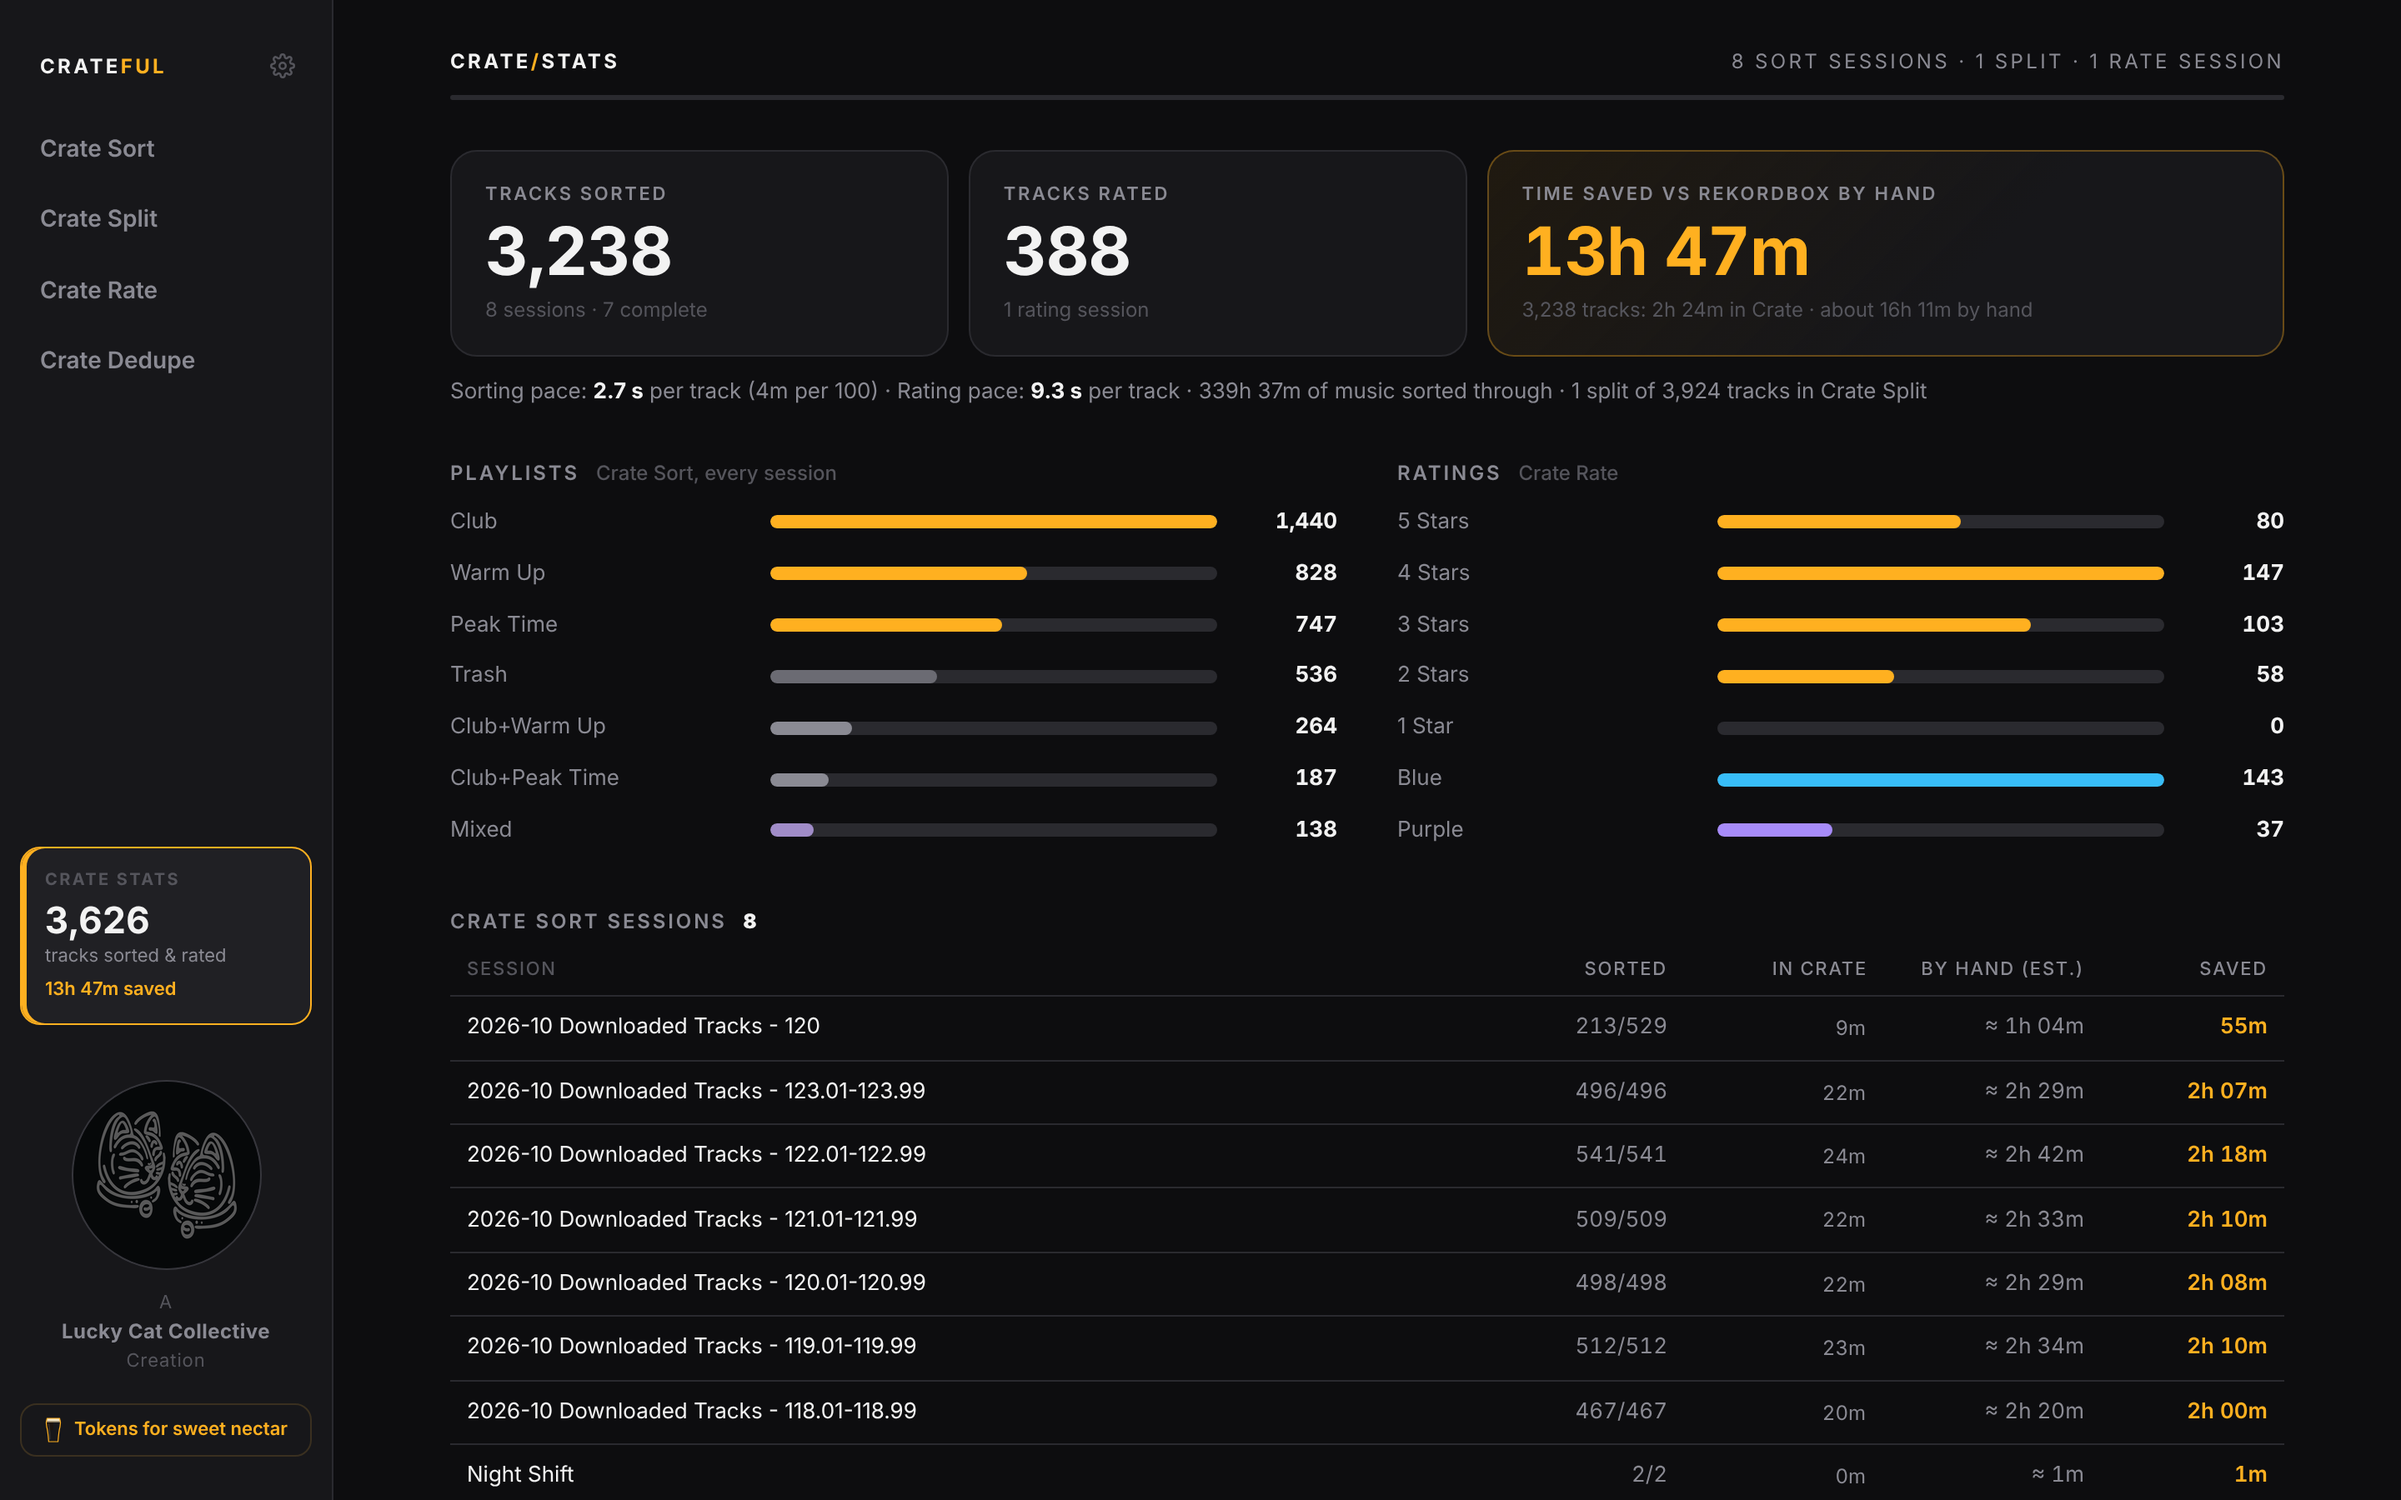
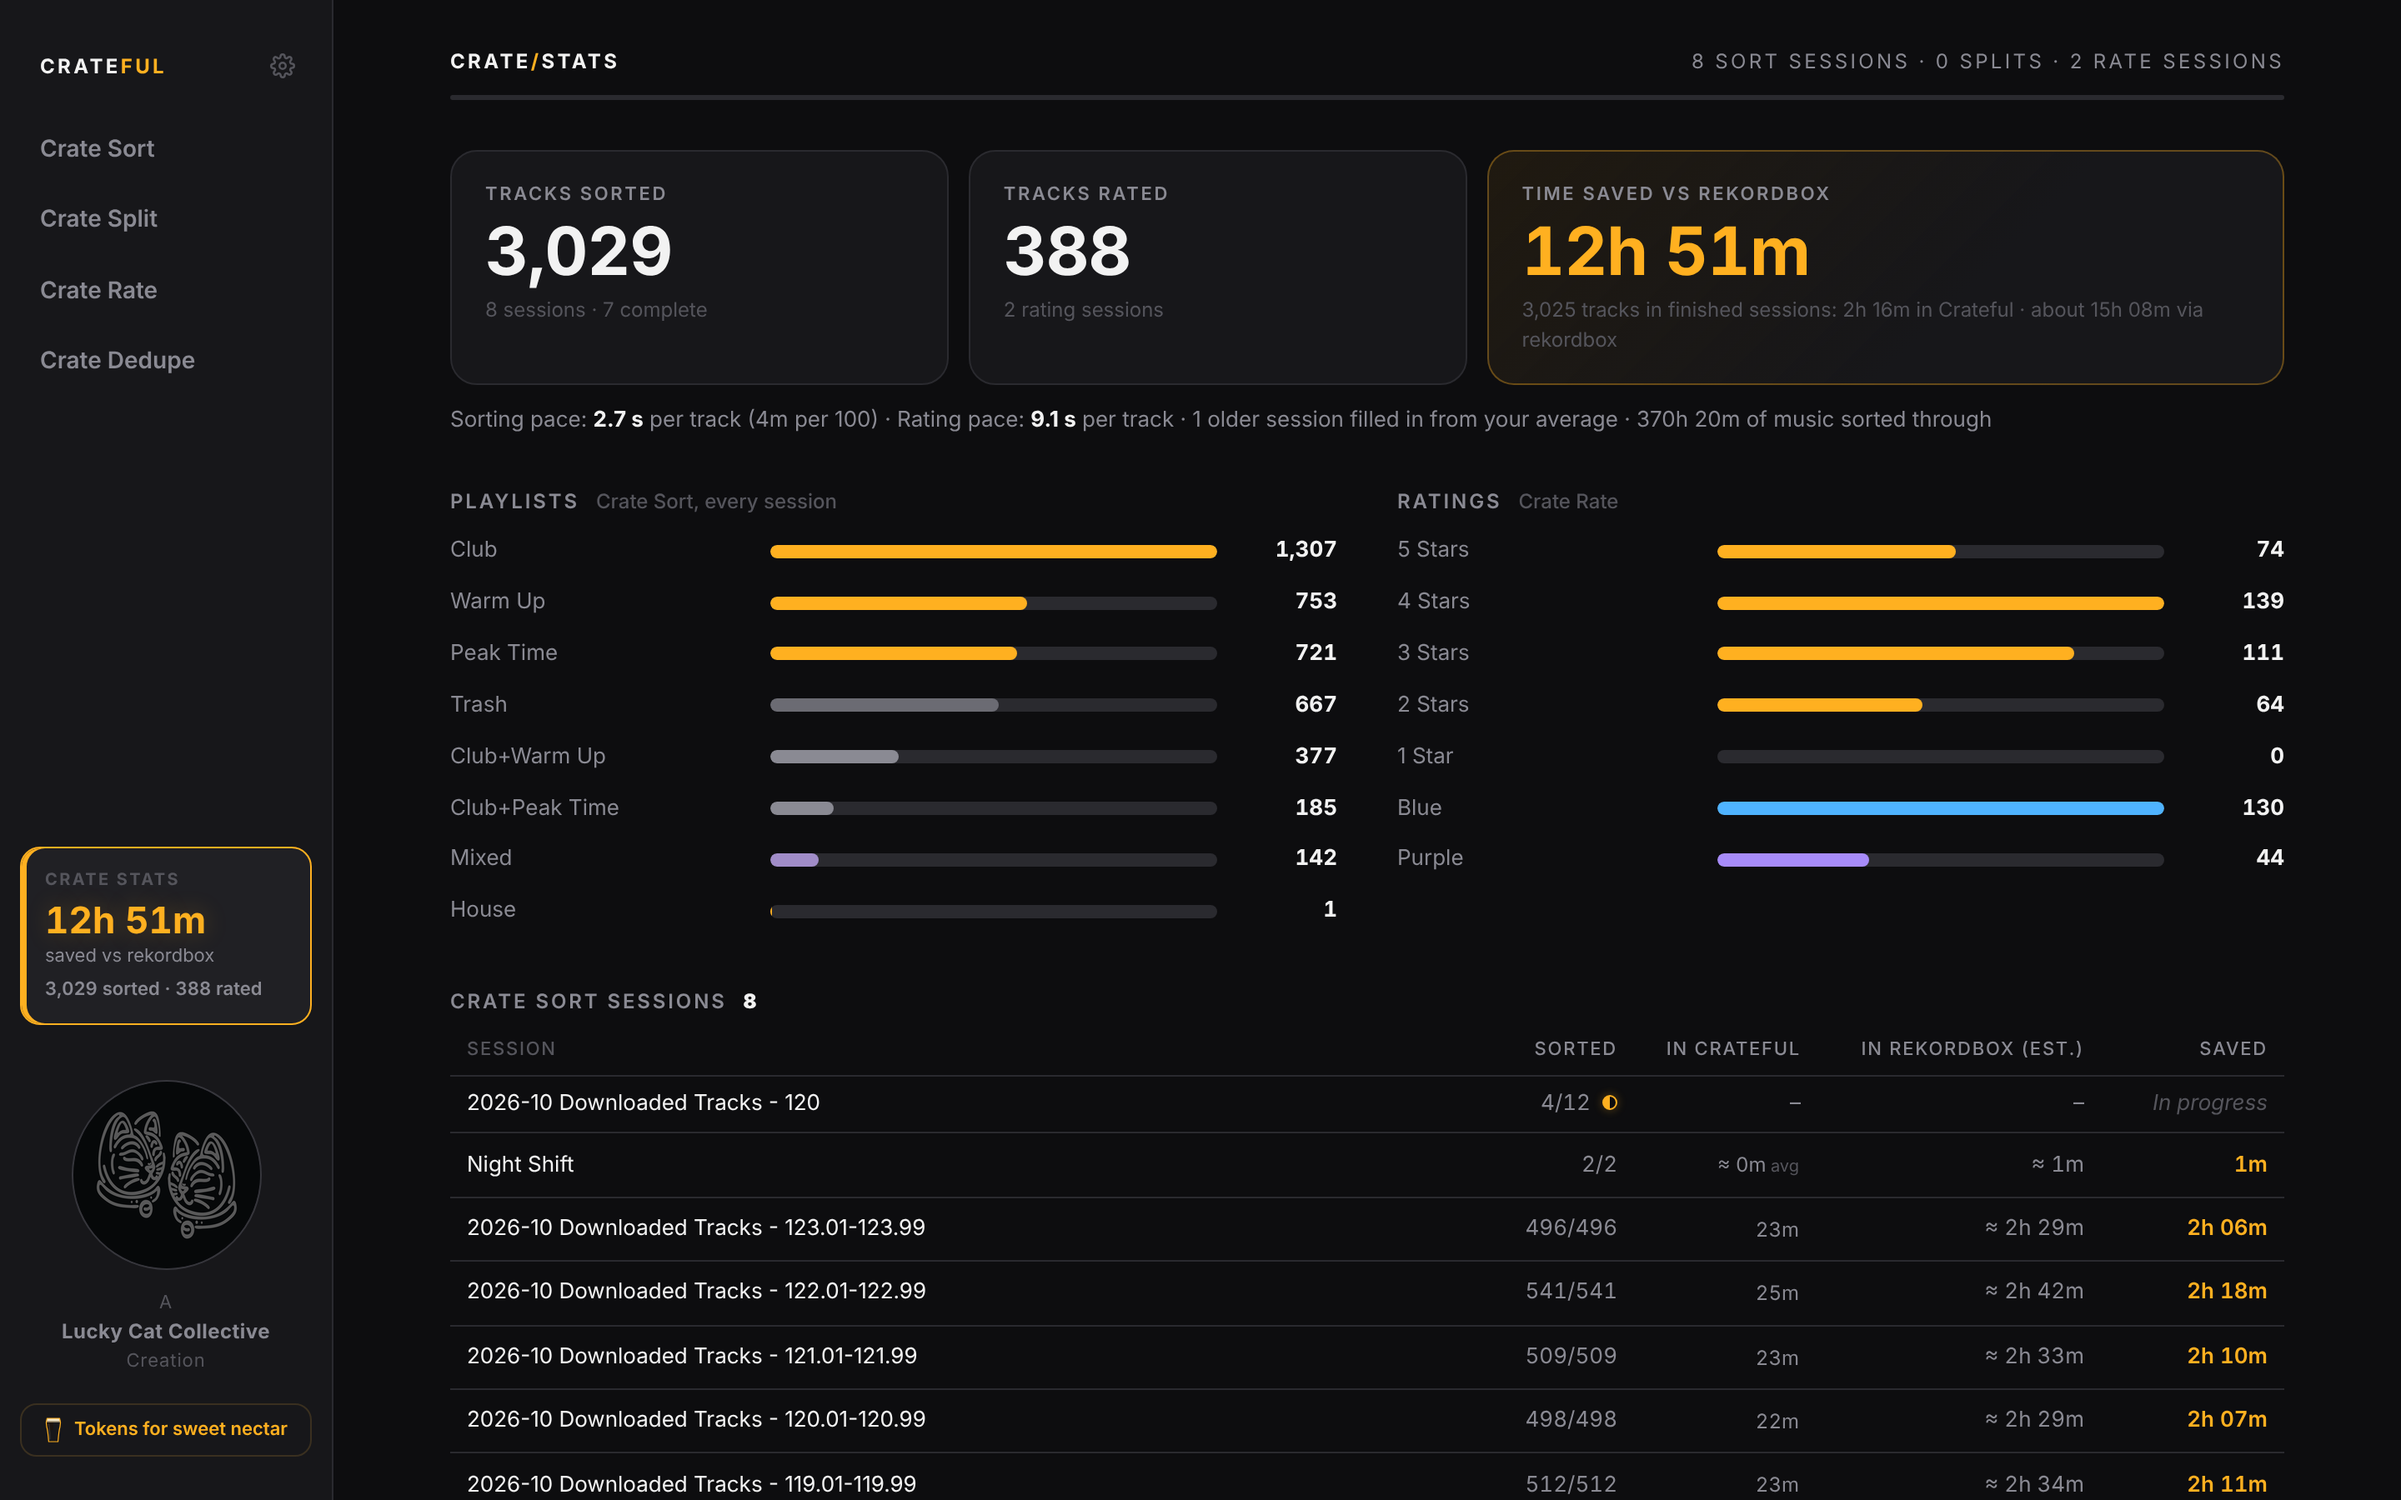
updated readme

diff --git a/README.md b/README.md
@@ -43,11 +43,11 @@ Needs macOS 11 (Big Sur) or newer. Works on Apple Silicon and Intel Macs.
 | **Crate Split**<br>Drop a rekordbox `.txt` export and get one playlist per BPM, e.g. `2026-10 Downloaded Tracks - 120.01-120.99`. Tracks on an exact whole BPM can get their own playlist. Optionally starts a sorting session for each one. | ![Crate Split](docs/screenshots/crate-split.gif) |
 | **Crate Rate**<br>1–5 stars plus your own tags (e.g. *Purple: Euphoric*), then Enter to save and continue. A tempo fader (±6 / 10 / 16 / WIDE) with master tempo lets you hear how a track holds up sped up, and −/+ jumps to the next whole BPM. | ![Crate Rate](docs/screenshots/crate-rate.png) |
 | **Crate Dedupe**<br>Drop rekordbox's collection `.xml` and go through your duplicates one song at a time: every copy side by side with its file type, bitrate, artwork, album, cues, plays and folder, plus its own player so you can hear the difference. The best copy is ticked for you; 1–9 changes what you keep, Enter moves on. It warns you before you lose a playlist, your cues or a Crate Sort playlist. Crateful deletes nothing: the copies to get rid of go into one playlist, `DupedTracksToDelete.m3u8`, to remove in rekordbox. | ![Crate Dedupe](docs/screenshots/crate-dedupe.png) |
-| **Crate Stats**<br>Tracks sorted and rated, duplicates cleared, your real pace, and the time saved compared with doing it by hand. Every key press is timed, with breaks left out. | ![Crate Stats](docs/screenshots/crate-stats.png) |
+| **Crate Stats**<br>Tracks sorted and rated, duplicates cleared, your real pace, and the time saved compared with doing the same in rekordbox. Every key press is timed, with breaks left out. Time saved counts finished sessions; ones you're part way through are marked in progress. | ![Crate Stats](docs/screenshots/crate-stats.png) |
 
-## Crateful vs sorting by hand
+## Crateful vs sorting in rekordbox
 
-| | rekordbox by hand | Crateful |
+| | rekordbox | Crateful |
 |---|:---:|:---:|
 | One key per track, no dragging or scrolling | ✗ | ✓ |
 | **Add a track to several playlists with one key** (e.g. Club + Peak Time) | ✗ | ✓ |
@@ -131,7 +131,7 @@ Preferences are saved in `crateful.config.json` in `~/Library/Application Suppor
 | Setting | What it does | Default |
 |---|---|---|
 | `rate_tags` | Crate Rate tag keys to start with (6–9, 0), each with a name, note and colour | none |
-| `hand_seconds_per_track` | Crate Stats: seconds per track doing the same by hand | `18` (30 min per 100) |
+| `hand_seconds_per_track` | Crate Stats: seconds per track doing the same in rekordbox | `18` (30 min per 100) |
 
 </details>
 
